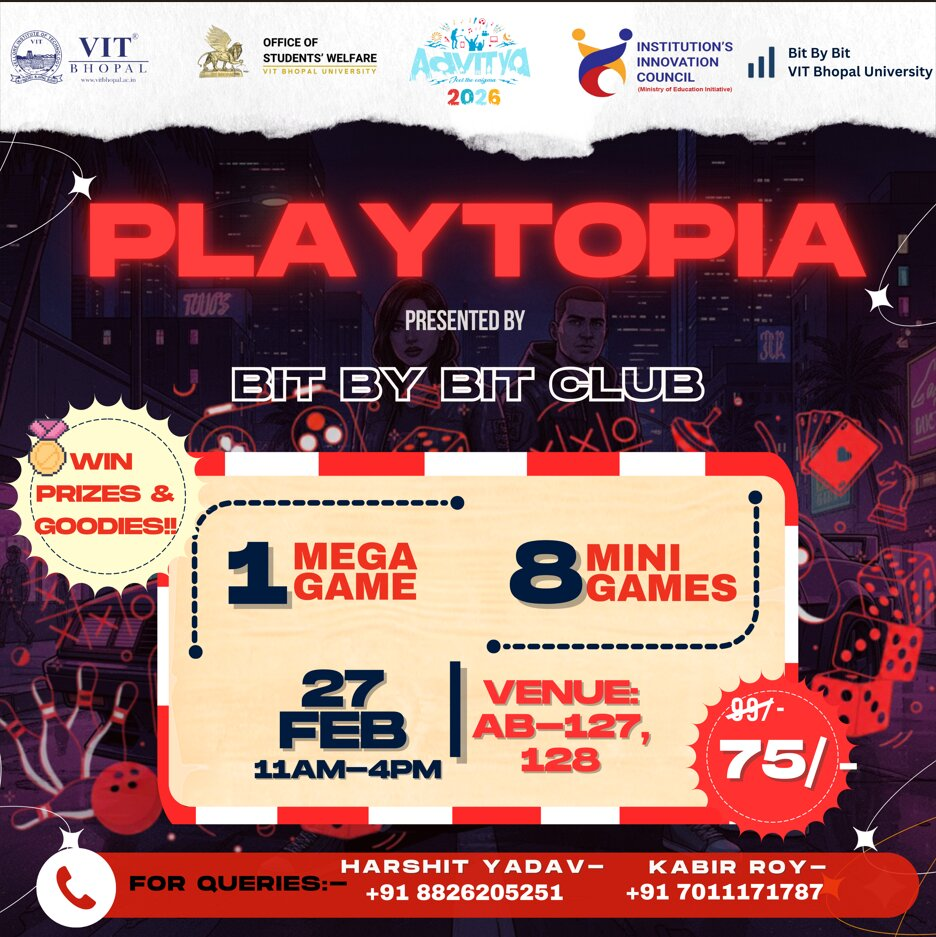
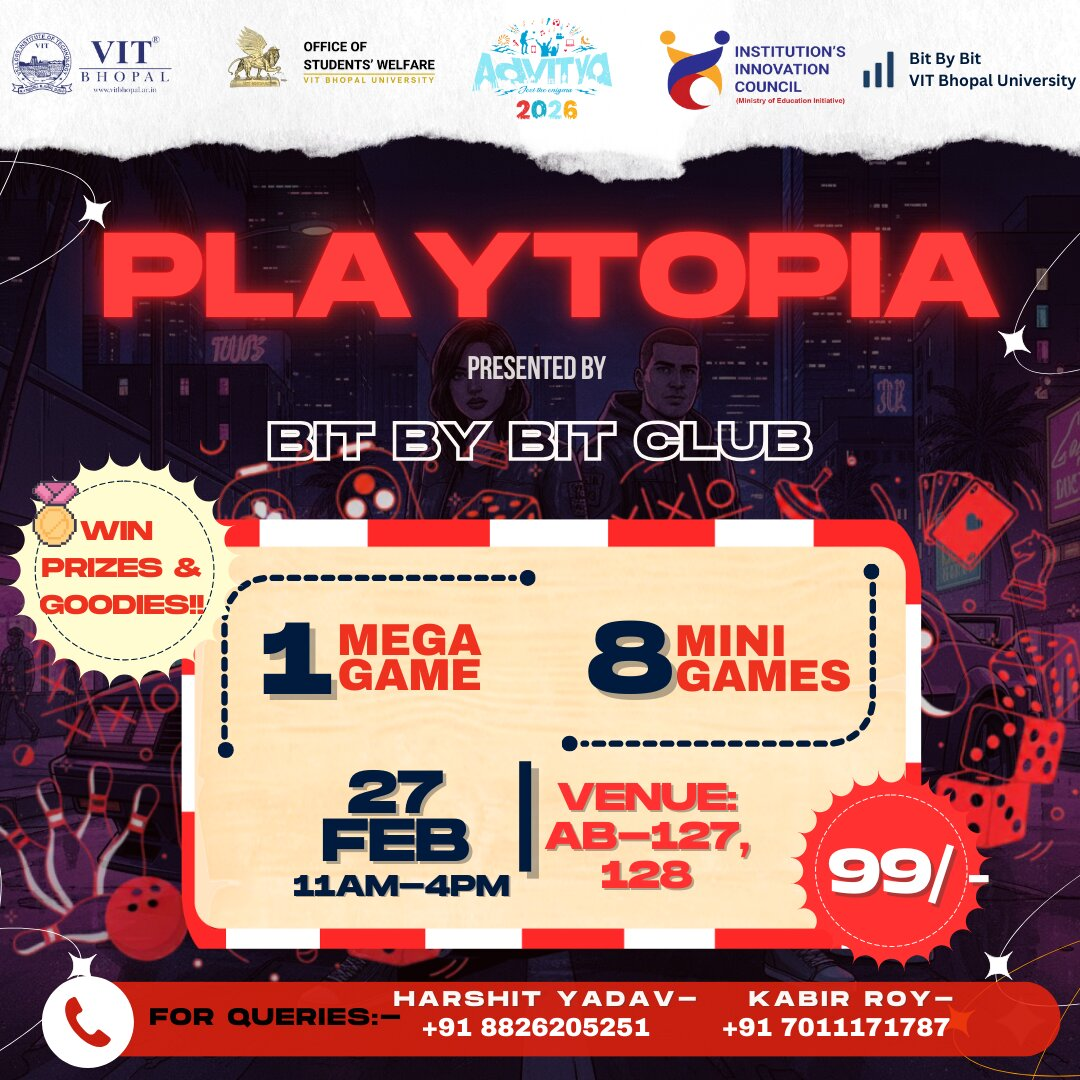
fixes

diff --git a/index.html b/index.html
@@ -88,7 +88,7 @@
             <div class="stat"><span>Date</span><strong> 27 Feb</strong></div>
             <div class="stat"><span>Time</span><strong>11:00 AM – 4:00 PM</strong></div>
             <div class="stat"><span>Venue at</span><strong>AB-1 127/128</strong></div>
-            <div class="stat"><span>Entry</span><strong> 75₹ [Mini games] <br> 99₹ [Mega Game]</strong></div>
+            <div class="stat"><span>Entry</span><strong> 99₹ [Mini games] <br> 80₹ [Mega Game]</strong></div>
           </div>
           <div class="hero-cta">
             <a class="btn primary" href="https://docs.google.com/forms/d/e/1FAIpQLSeQ5irJwG6kWEsxujRNKnwEvao8Jyx-F3ZvM8bhG8RcpG4QCw/viewform" target="_blank" rel="noopener">Register Now</a>
@@ -170,7 +170,7 @@
           <h2>Tech-Mafia City Takeover</h2>
           <div class="mega-price glass">
             <span class="mega-price-label">Entry Fee</span>
-            <strong class="mega-price-value">₹99 per person </strong>
+            <strong class="mega-price-value">₹80 per person </strong>
           </div>
           <span class="game-divider mega-divider"></span>
           <div class="mega-card-body">
@@ -188,7 +188,7 @@
         <h2>Rapid-Fire Challenges</h2>
         <div class="games-price glass">
           <span class="games-price-label">Entry Fee</span>
-          <strong class="games-price-value">₹75</strong>
+          <strong class="games-price-value">₹99</strong>
           <span class="games-price-note">Valid for all 8 games</span>
         </div>
       </div>
@@ -264,7 +264,7 @@
         </div>
         <div class="details-item">
           <span>Entry Fee</span>
-          <strong>75₹ [Mini games] | 99₹ [Mega Game]</strong>
+          <strong>99₹ [Mini games] | 80₹ [Mega Game]</strong>
         </div>
         <div class="details-item">
           <span>Prize</span>
@@ -447,11 +447,11 @@
 
   <div class="leads-overlay" id="developer-overlay" hidden aria-hidden="true">
     <div class="leads-modal glass" id="developer-modal" role="dialog" aria-modal="true" aria-labelledby="developer-title" tabindex="-1">
-      <button class="leads-close" type="button" aria-label="Close Meet the Developer dialog">✕</button>
+  <button class="leads-close" type="button" aria-label="Close Meet the Developers dialog">✕</button>
       <div class="leads-content">
         <div class="leads-header">
-          <p class="eyebrow">Developer</p>
-          <h2 id="developer-title">Meet the Developer</h2>
+          <p class="eyebrow">Developers</p>
+          <h2 id="developer-title">Meet the Developers</h2>
         </div>
         <div class="leads-grid">
           <div class="leads-row leads-row--two">
